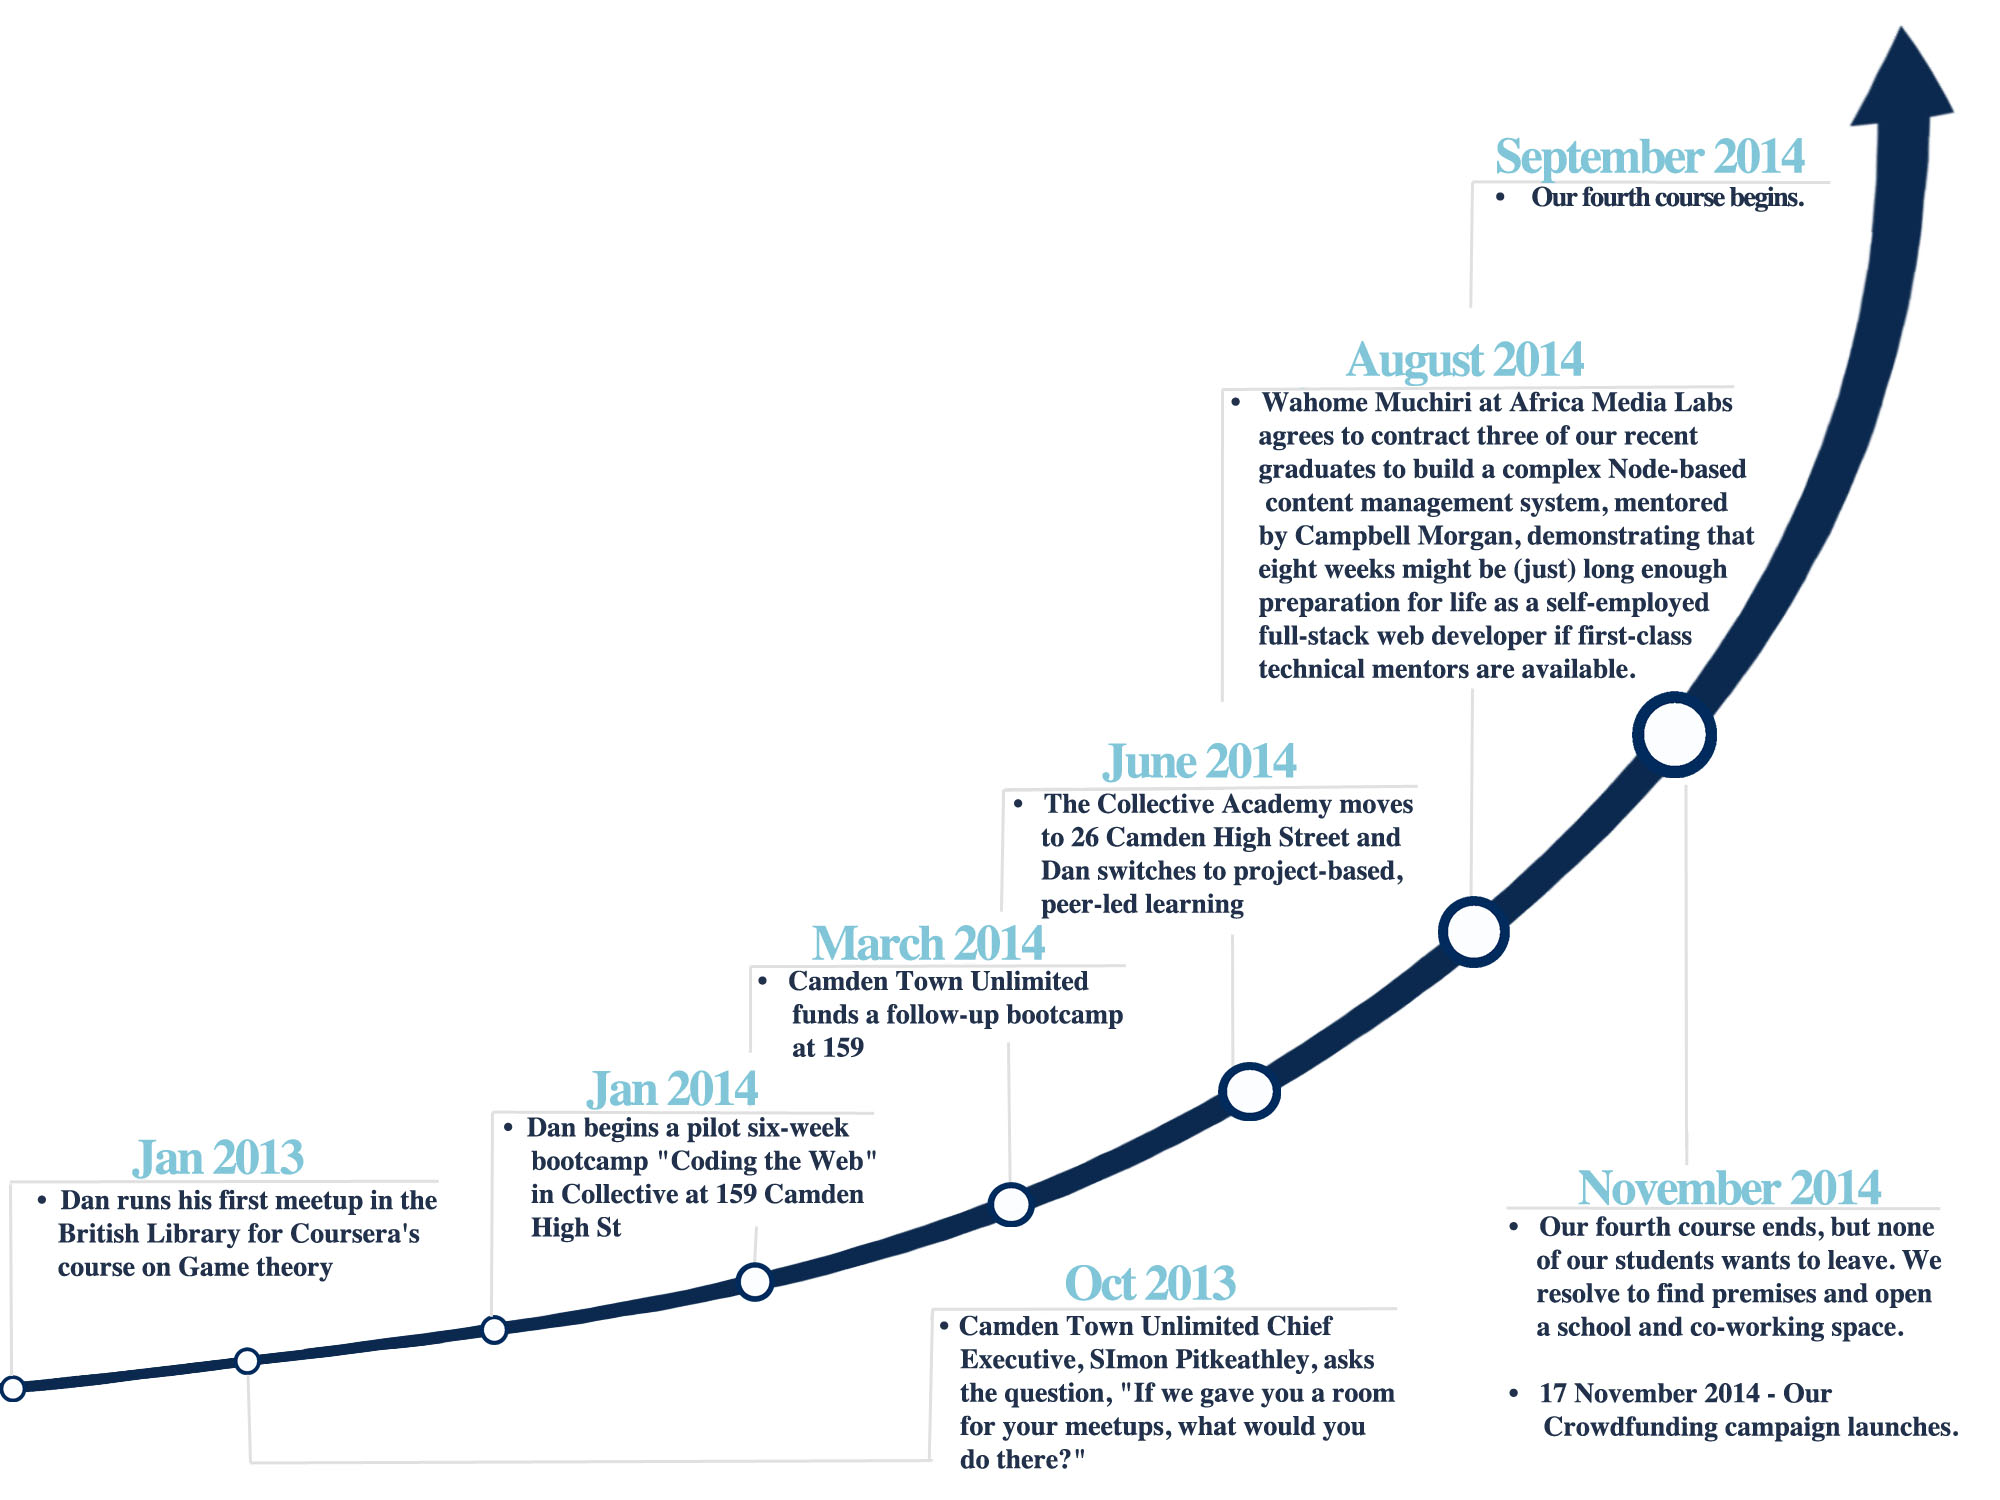
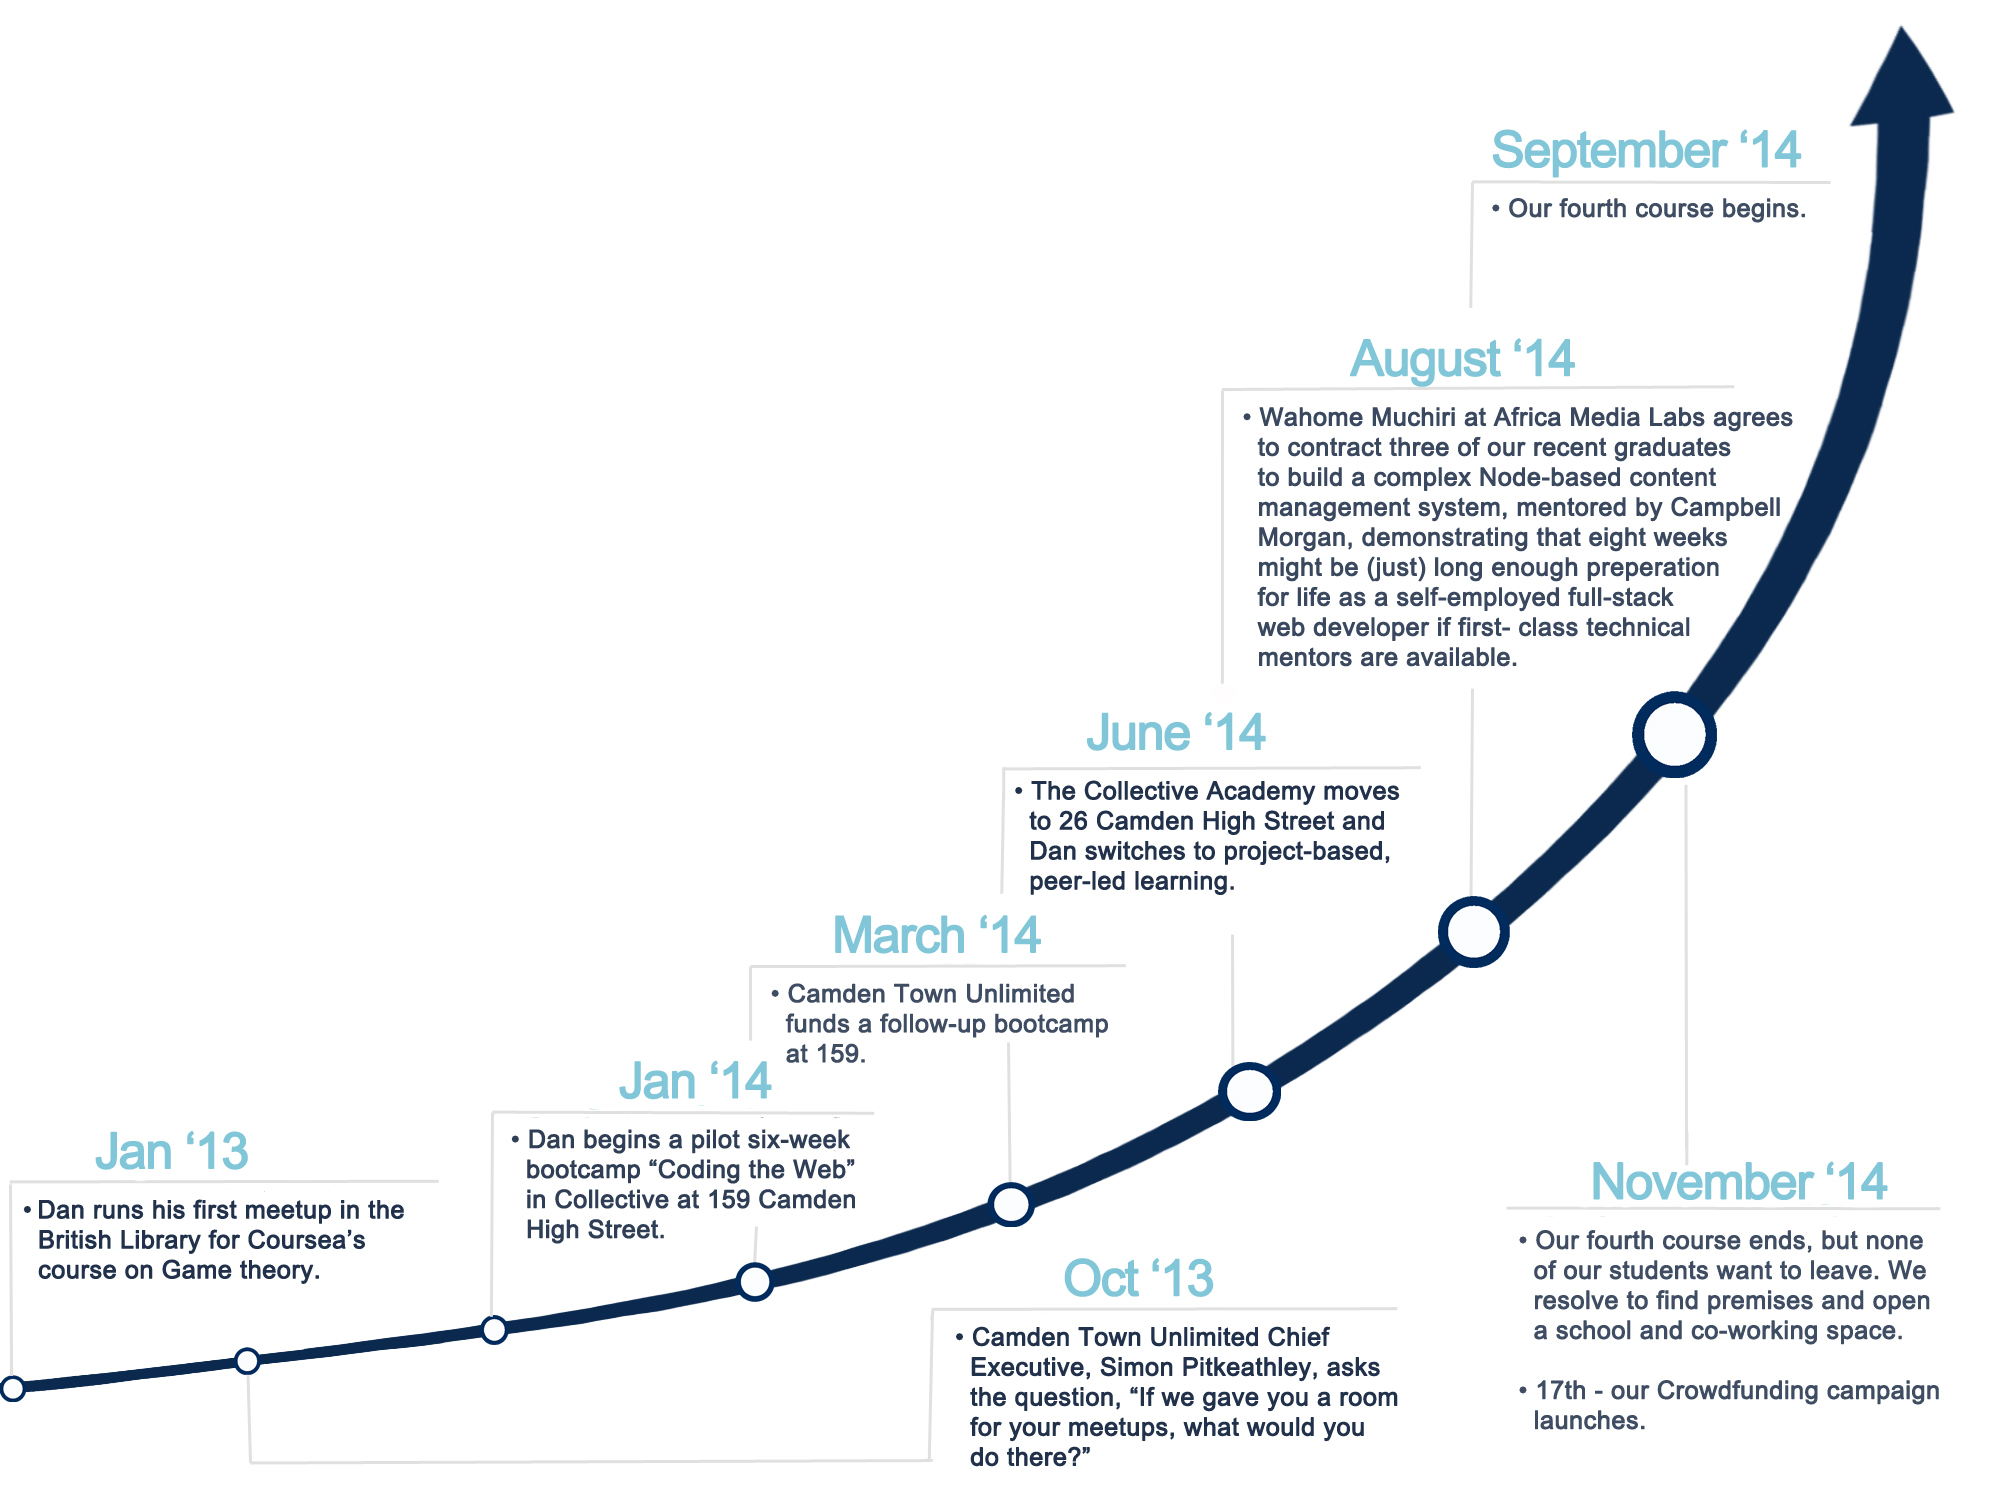
change font on timeline and also change sections on landing page

diff --git a/fullwebsite/index.html b/fullwebsite/index.html
@@ -34,20 +34,20 @@ layout: default
 		<div class="aboutlist_container container-fluid">
 			<div class="container container-fluid">
 				<div class="col-sm-5 col-md-4 triptych" id="topOne">
-					<h4 class = "h4-givebBackToTheCommunity">Giving back</h4>
-						<p>Founders and Coders runs intensive 8-week courses to train bright people with no experience in web development. We accept applications from anyone who is keen to learn and willing to work hard while collaborating in teams. We have graduates working in both tech companies and as freelance developers. Most of our graduates stick around to help us tackle projects and help pass on the skills that they have learnt here to future students.</p>
+					<h4 class = "h4-givebBackToTheCommunity">Model</h4>
+					<p>Founders and Coders now run a 16-week programme. For the first 8 weeks, students take part in our intensive full-stack web-development course. For the second, students are invited to remain in our space, </p>
+					<p> 1) where they will work on real projects, doing interesting and challenging work, while being paid for the value of work they produce. </p>
+					<p> 2) where they will do real paid-projects under the guidance of mentors. </p>
+					<p> 3) where they will team up with mentors to work on real projects.</p>
 				</div>
 				<div class="col-sm-5 col-md-4 triptych" id="topTwo">
-					<h4 class = "h4-givebBackToTheCommunity">Self-sustaining</h4>
-						<p>The course's self-funding model will have two main streams of income: renting workspace to our graduates (and other developers), and sponsorship from companies who wish to employ them. The Indiegogo campaign we are running will cover the first three months rent to allow graduates to develop themselves professionally. After that, they will be able to fund the space themselves while volunteering time to help teach the next course.</p>
-						<!--This allows alumni to enhance their practices and product ideas while surrounded by other developers-->
+					<h4 class = "h4-givebBackToTheCommunity">Ethos</h4>
+					<p>We value diversity. We aim to have an even number of men and women and take people from backgrounds that are underrepresented in the tech industry. There are no formal educational requirements; our selections are made on aptitude, work ethic and desire to have a positive impact on the world. We are building a community of exceptional people who are interested in learning, teaching and succeeding, together.</p>
 				</div>
 				<div class="col-sm-6 col-md-4 triptych" id="topThree">
-					<h4 class = "h4-givebBackToTheCommunity">Replicating</h4>
-						<p>Our model relies on very few resources. All it needs is a course leader, inspiring mentors, passionate students, and a space to work in. We nurture an ethos of giving back, within a model of education that is self-funding and depends on very few resources. We believe that this course can be replicated anywhere in the world. We aren't just starting a free coding school in London, we are starting a global movement in free and sustainable education.</p>
-					<!-- This shoudl be about how good it looks. -->
+					<h4 class = "h4-givebBackToTheCommunity">Vision</h4>
+					<p>Building on the ideas of Sugata Mitra, Richard Felder and Elliot Aronson we have developed a group based educational model, nurturing passion, community and hard work. With the support of our alumni, we expect our model to be self sustaining and replicable. Education should not be an expensive and isolated experience, it should be free and communal. We want our courses, and similar projects, to be available worldwide.</p>
 				</div>
-					<!-- This should be about how well everything works.  -->
 			</div>
 		</div>
 	</div>

diff --git a/fullwebsite/css/main.scss b/fullwebsite/css/main.scss
@@ -707,6 +707,7 @@ and (max-device-width : 767px) {
         .text-outer{
             height: 100%;
             h1 {
+                font-family: Arial, Helvetica, sans-serif;
                 padding: 10vh 0 5vh;
                 font-size: 60px;
                 font-weight: 400;

diff --git a/fullwebsite/css/main.css b/fullwebsite/css/main.css
@@ -655,6 +655,7 @@ div.clear {
   height: 100%;
 }
 .story-page .story-section .text-outer h1 {
+  font-family: Arial, Helvetica, sans-serif;
   padding: 10vh 0 5vh;
   font-size: 60px;
   font-weight: 400;
